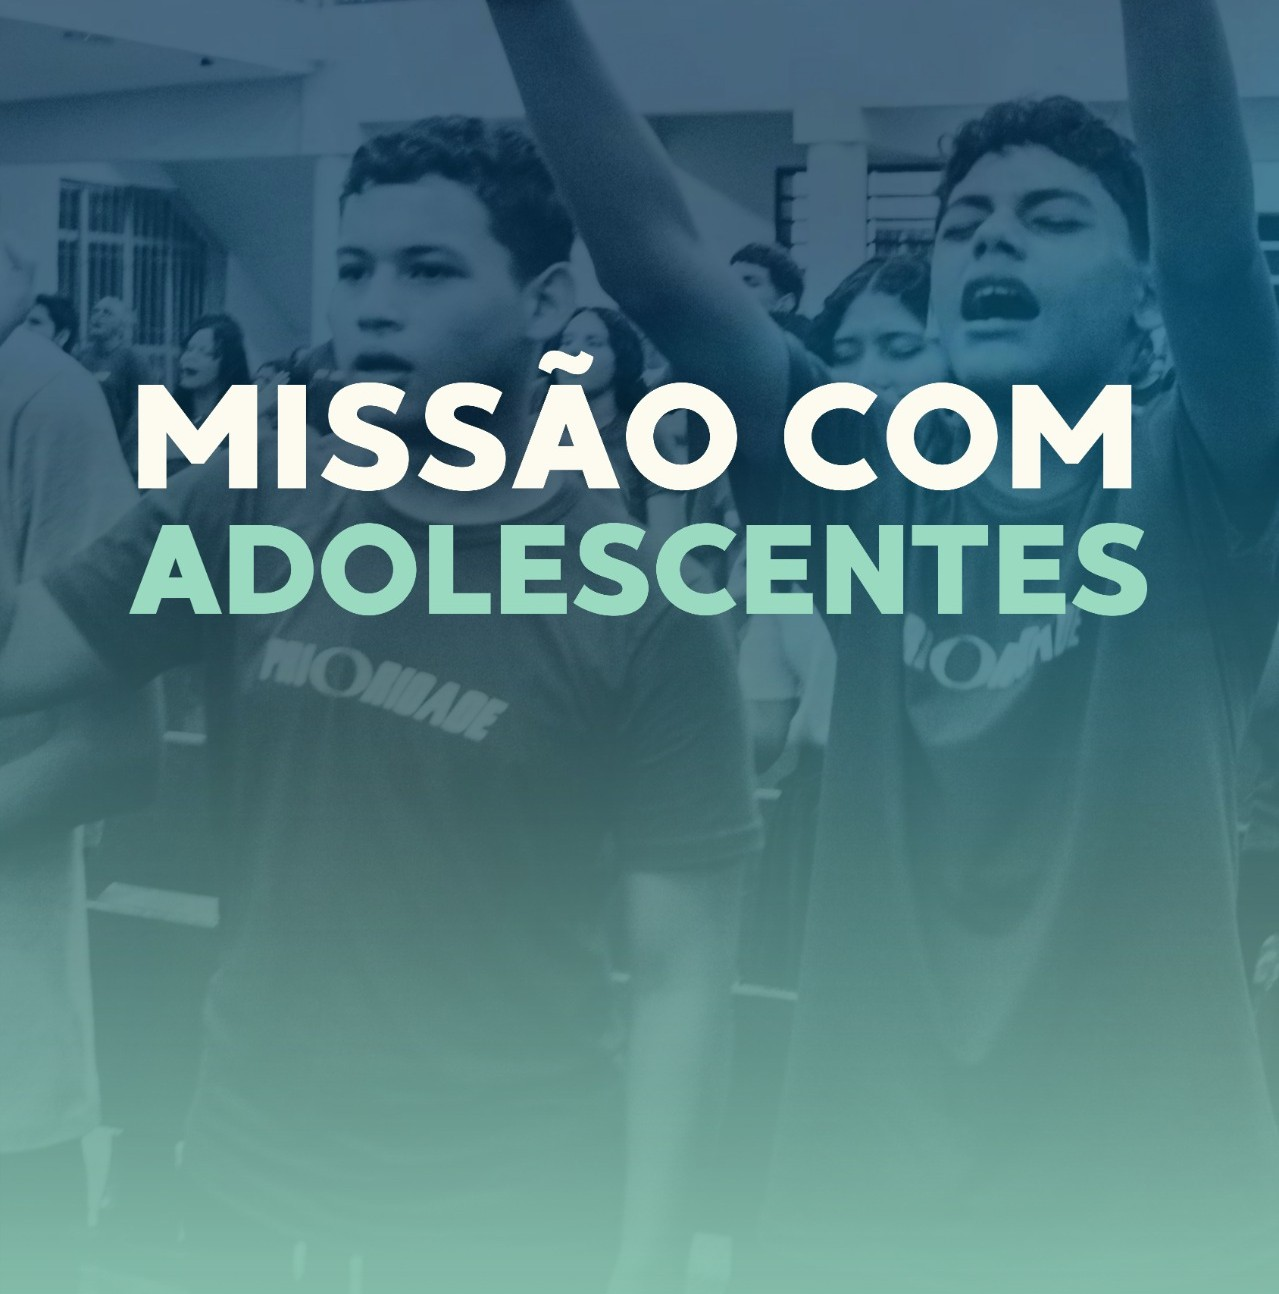
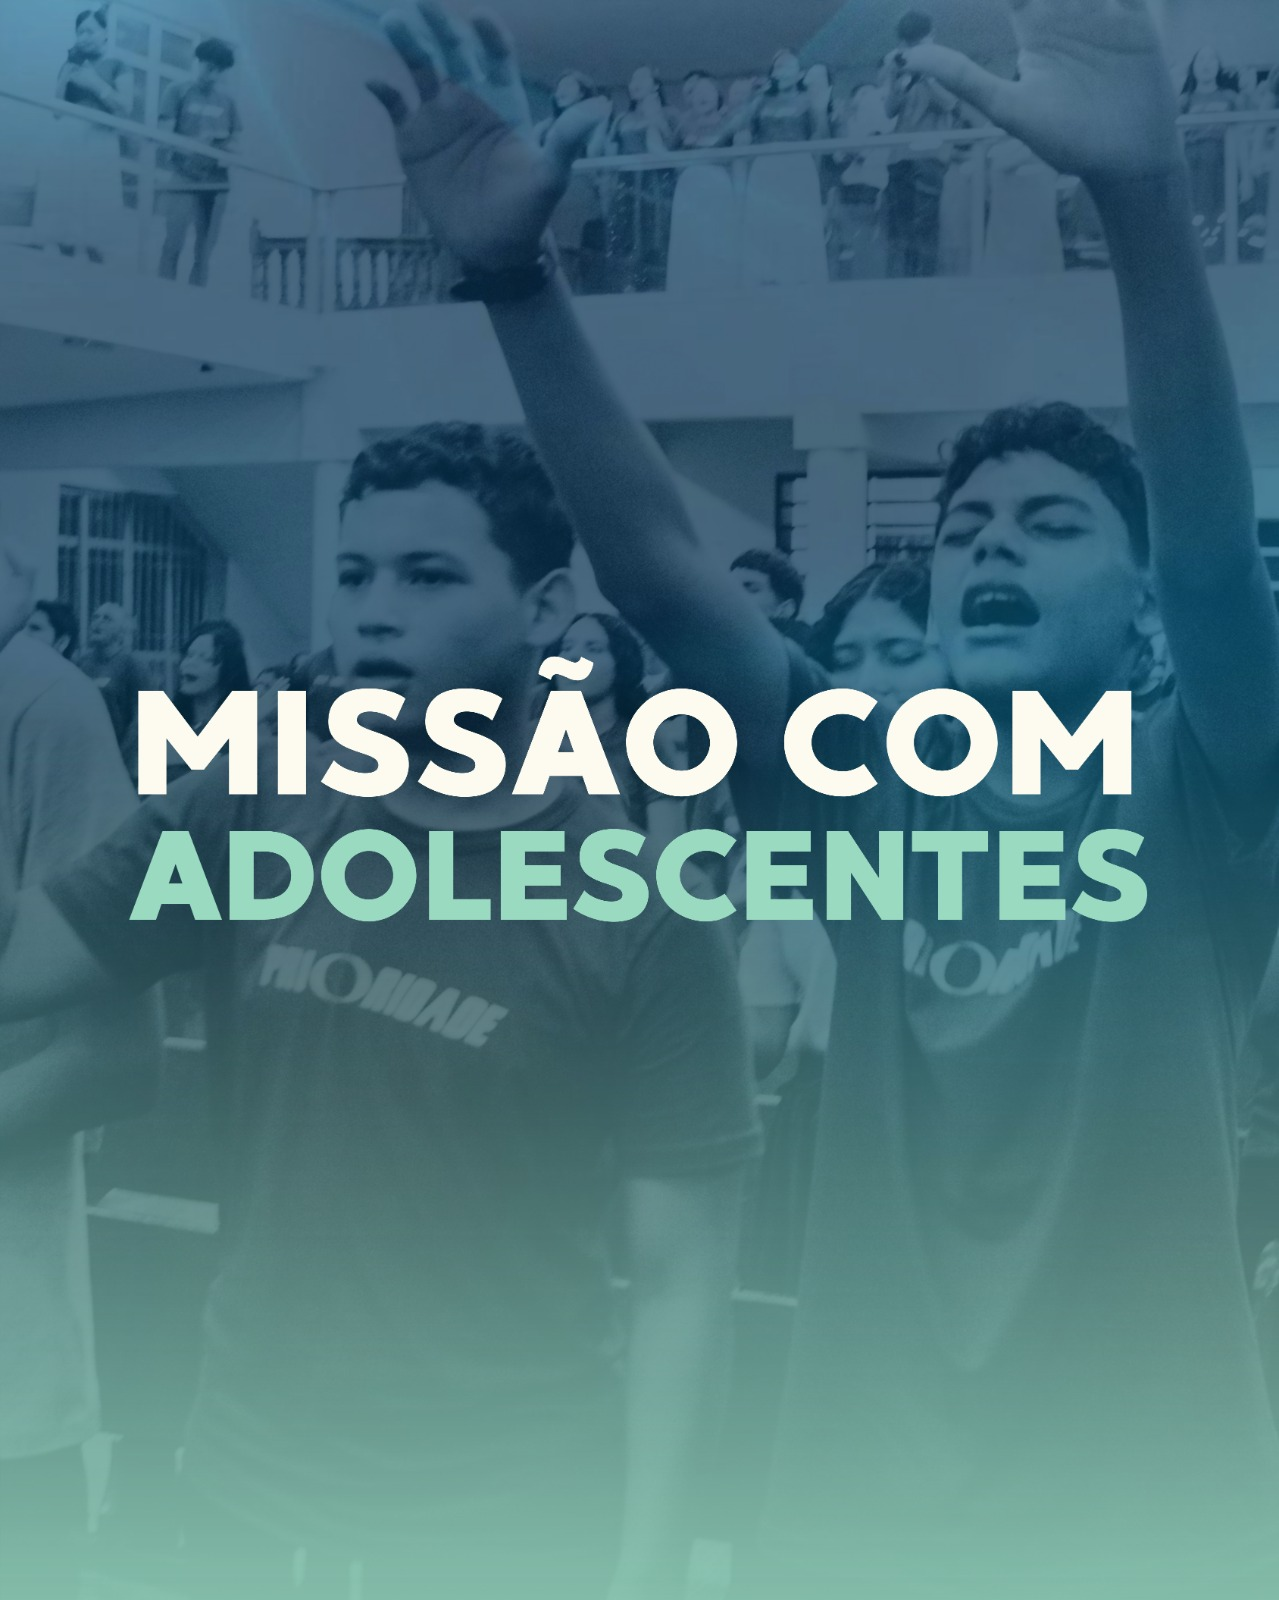
Atualiza título da página e substitui imagem dos Adolescentes

diff --git a/Missões/Missões com adolecentes/adolecentes.html b/Missões/Missões com adolecentes/adolecentes.html
@@ -10,14 +10,14 @@
         href="https://fonts.googleapis.com/css2?family=Cinzel:wght@400..900&family=Montserrat:ital,wght@0,100..900;1,100..900&family=Oswald:wght@200..700&family=Poppins:ital,wght@0,100;0,200;0,300;0,400;0,500;0,600;0,700;0,800;0,900;1,100;1,200;1,300;1,400;1,500;1,600;1,700;1,800;1,900&family=Roboto:ital,wght@0,100..900;1,100..900&display=swap"
         rel="stylesheet">
     <script src="adolecentes.js" defer></script>
-    <title> </title>
+    <title>Missões com Adolecentes </title>
 </head>
 
 <body>
 
     <section class="logo-inico">
 
-        <h1 class="text"> &mdash; Missão &mdash; <br> Adolecentes </h1>
+        <h1 class="text"></h1>
 
         <h2 class="text-sobre-titulo">Uma geração que não se cala</h2>
         <div class="sobre">
